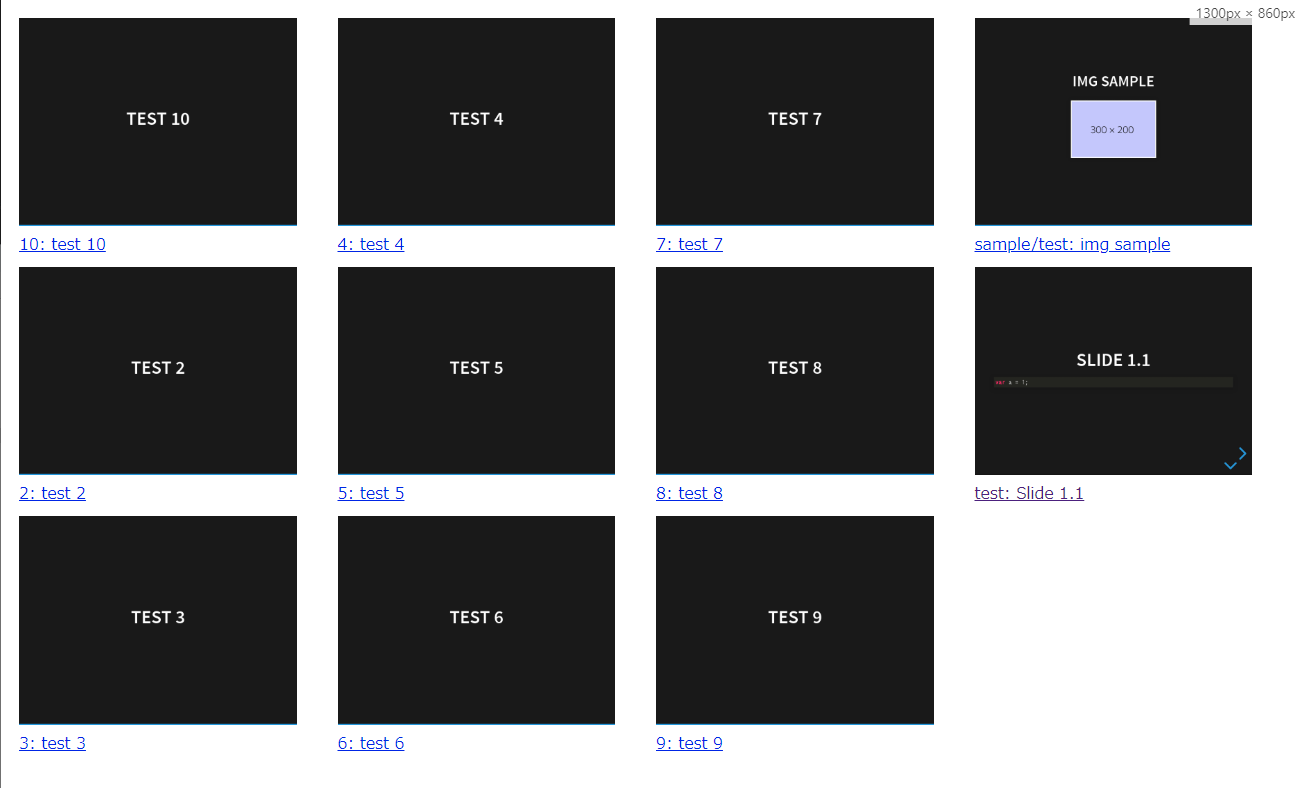
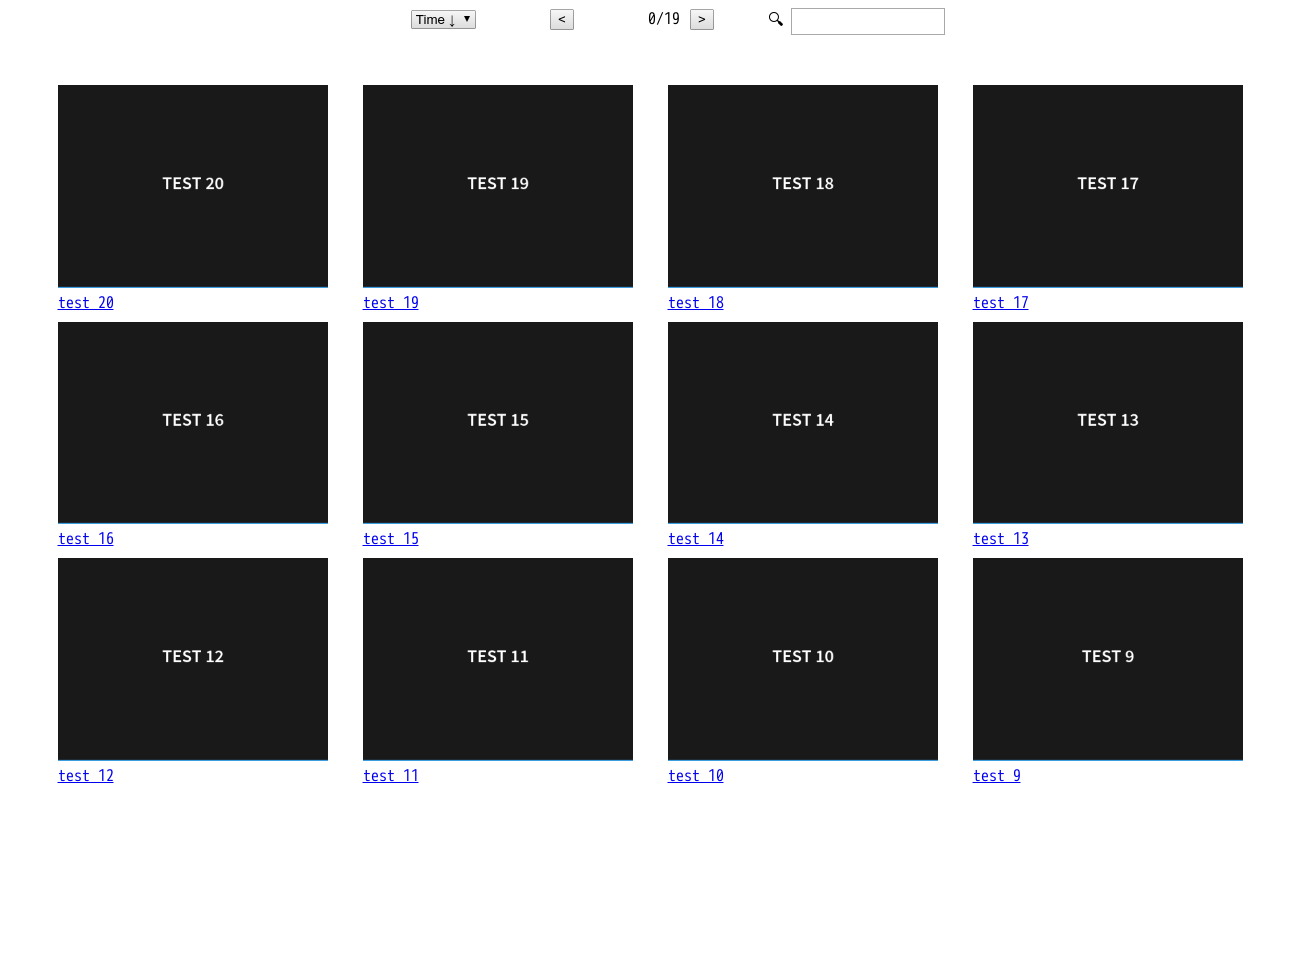
add script to take screenshot of index

diff --git a/src/scripts/take-index-screenshot.ts b/src/scripts/take-index-screenshot.ts
@@ -1,0 +1,61 @@
+import { spawn } from 'child_process';
+import readline from 'readline';
+
+import puppeteer from 'puppeteer';
+import commander from "commander";
+
+const screenshot_name = 'README/screenshot.png';
+
+const parser = commander
+  .option("-p, --port <port>", "change port", "3001")
+  .option("-d, --resource <resource>", "change resource directory", "resource")
+  .parse(process.argv);
+
+const port = parser.port;
+const resource = parser.resource;
+
+const proc = spawn("npm", ["start", "--", "-p", port, "-d", resource]);
+
+const started_message = `revealjs-markdown-server listening on port ${port}`;
+
+const stdout_if = readline.createInterface(proc.stdout);
+
+proc.stdout.setEncoding('utf8');
+stdout_if.on('line', (line: string) => {
+  const founded = line.indexOf(started_message);
+  if (founded !== -1) {
+    take()
+      .catch(e => console.error(e))
+      .then(() => {
+        proc.kill('SIGINT');
+        console.log('kill', proc.killed);
+      });
+  };
+});
+
+proc.on('close', (code) => {
+  console.info(`child_process exit with ${code}.`);
+});
+
+stdout_if.on('close', () => {
+  console.error("child_process stdout closed.");
+});
+
+async function take() {
+  const browser = await puppeteer.launch({ args: ['--no-sandbox']});
+  console.log('puppeteer.launch()');
+  try {
+    const page = await browser.newPage();
+    console.log('browser.newPage()');
+    await page.setViewport({ width: 1300, height: 960});
+    await page.goto(`http://localhost:${port}`, {
+      waitUntil: 'networkidle0'
+    });
+    console.log('page.goto()');
+    await page.screenshot({path: screenshot_name});
+    console.log('page.screenshot()');
+  } catch (e) {}
+  await browser.close();
+  console.log('browser.close()');
+  return;
+}

diff --git a/README.md b/README.md
@@ -24,7 +24,7 @@ $ docker run -v /path/to/resource:/resource -p 3000:3000 <image id>
 ```
 
 ## screenshot of index
-It take a screenshot after `seq 2 10 | sed 's%.*%echo "## test &" > resource/md/&.md%e'`.
+`npm run build-scripts-take-index-screenshot && npm run take-index-screenshot`. See [scripts/create-dummy.sh](scripts/create-dummy.sh).
 
 ![](README/screenshot.png)
 
